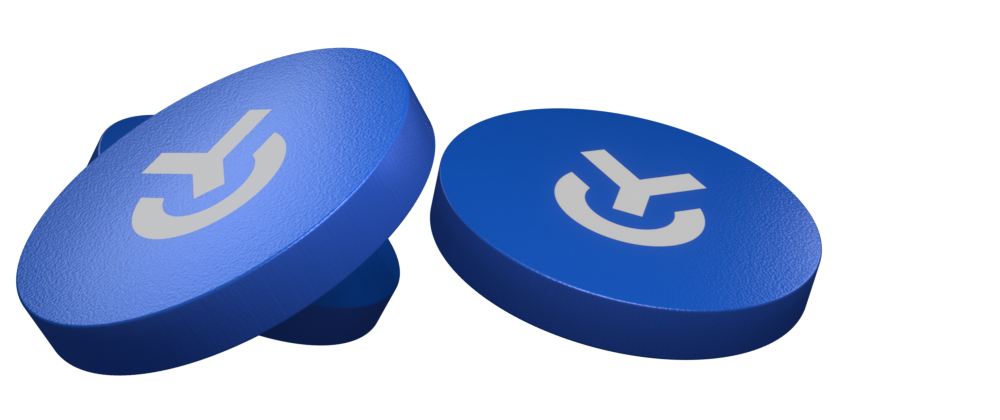
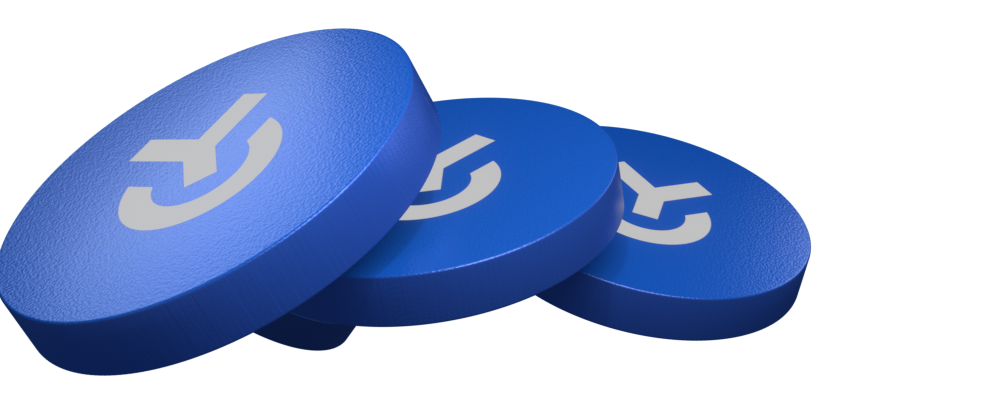
chore: checkpoint current ui baseline and planning docs

Changed region(s): [[0.0, 0.0619, 0.837, 0.8667], [0.062, 0.8667, 0.186, 0.8976], [0.186, 0.8357, 0.217, 0.8667]]

diff --git a/web/app/globals.css b/web/app/globals.css
@@ -3662,6 +3662,25 @@ input:focus-visible {
   opacity: 0.95;
 }
 
+@media (min-width: 1200px) {
+  .home-minimal-hero {
+    min-height: 520px;
+    padding: 3rem 2.55rem;
+    grid-template-columns: minmax(0, 1fr) minmax(380px, 1.18fr);
+  }
+
+  .home-minimal-hero-art {
+    min-height: 436px;
+    margin-right: -2.6rem;
+    overflow: visible;
+  }
+
+  .prism-hero-image {
+    object-position: 71% 57%;
+    transform: scale(1.32);
+  }
+}
+
 .home-minimal-break {
   position: relative;
   height: 84px;
@@ -3991,8 +4010,8 @@ input:focus-visible {
   }
 
   .prism-purpose-image {
-    object-position: 53% 50%;
-    transform: scale(1.1);
+    object-position: 46% 50%;
+    transform: scale(1.12);
   }
 
   .home-minimal-signals,
@@ -4008,11 +4027,21 @@ input:focus-visible {
 
 @media (max-width: 700px) {
   .home-minimal-hero {
-    padding: 1.18rem 0.95rem;
+    position: relative;
+    min-height: 372px;
+    padding: 1.38rem 0.95rem 0.92rem;
+    align-items: flex-start;
+  }
+
+  .home-minimal-hero-copy {
+    position: relative;
+    z-index: 2;
+    max-width: 76%;
+    margin-top: 0.34rem;
   }
 
   .home-minimal-hero-copy p {
-    max-width: 38ch;
+    max-width: 27ch;
   }
 
   .home-minimal-break {
@@ -4020,12 +4049,17 @@ input:focus-visible {
   }
 
   .home-minimal-hero-art {
-    min-height: 186px;
+    position: absolute;
+    inset: 4.15rem -1.9rem -1.1rem 34%;
+    z-index: 1;
+    min-height: 0;
+    margin-right: 0;
+    overflow: visible;
   }
 
   .prism-hero-image {
-    object-position: 48% 50%;
-    transform: scale(1.07);
+    object-position: 58% 50%;
+    transform: scale(1.35);
   }
 
   .home-minimal-purpose {
@@ -4037,8 +4071,8 @@ input:focus-visible {
   }
 
   .prism-purpose-image {
-    object-position: 52% 50%;
-    transform: scale(1.12);
+    object-position: 38% 50%;
+    transform: translateX(-4%) scale(1.2);
   }
 
   .home-route-clickable {
@@ -4053,6 +4087,3 @@ input:focus-visible {
     font-size: 0.9rem;
   }
 }
-  .home-minimal-break {
-    height: 72px;
-  }

diff --git a/scripts/generate_yearn_blender_assets.py b/scripts/generate_yearn_blender_assets.py
@@ -20,6 +20,95 @@ SCENE_OUTPUTS: dict[str, tuple[str, tuple[int, int]]] = {
     "divider": ("divider-yearn-blender-coins.png", (1600, 220)),
 }
 
+CoinColor = tuple[float, float, float, float]
+TokenPose = tuple[tuple[float, float, float], tuple[float, float, float], float, CoinColor]
+
+C0: CoinColor = (0.006, 0.12, 0.62, 1.0)
+C1: CoinColor = (0.005, 0.095, 0.5, 1.0)
+C2: CoinColor = (0.003, 0.07, 0.38, 1.0)
+C3: CoinColor = (0.01, 0.14, 0.7, 1.0)
+C4: CoinColor = (0.008, 0.11, 0.56, 1.0)
+C5: CoinColor = (0.0025, 0.06, 0.33, 1.0)
+C6: CoinColor = (0.011, 0.16, 0.76, 1.0)
+
+HERO_LAYOUTS: dict[str, list[TokenPose]] = {
+    "default": [
+        ((0.34, -0.02, 0.62), (16, -30, 6), 0.98, C0),
+        ((1.22, 0.8, 0.14), (14, 18, -10), 0.78, C1),
+        ((-0.46, 1.0, 0.02), (12, 34, 14), 0.66, C2),
+    ],
+    "arc4": [
+        ((0.18, -0.1, 0.68), (15, -28, 4), 1.02, C0),
+        ((0.78, 0.34, 0.38), (15, -4, -10), 0.86, C4),
+        ((1.26, 0.96, 0.02), (18, 24, -12), 0.62, C1),
+        ((-0.96, 1.06, -0.2), (11, 40, 20), 0.5, C5),
+    ],
+    "stack5": [
+        ((0.06, -0.22, 0.82), (18, -22, 2), 1.08, C3),
+        ((0.72, 0.24, 0.48), (14, -6, -8), 0.9, C0),
+        ((1.18, 0.9, 0.16), (14, 20, -14), 0.7, C1),
+        ((-0.64, 0.86, -0.02), (11, 34, 14), 0.6, C2),
+        ((-1.02, 0.18, -0.32), (10, 44, 24), 0.48, C5),
+    ],
+    "spread6": [
+        ((-0.06, -0.14, 0.76), (16, -24, 4), 1.0, C0),
+        ((0.72, 0.18, 0.52), (15, -12, -8), 0.86, C4),
+        ((1.24, 0.68, 0.24), (15, 12, -10), 0.72, C1),
+        ((-0.56, 1.18, -0.04), (12, 32, 14), 0.54, C2),
+        ((-1.18, 0.66, -0.22), (10, 42, 24), 0.42, C6),
+        ((1.56, 1.24, -0.16), (13, 30, -16), 0.4, C5),
+    ],
+    "field7": [
+        ((0.02, -0.16, 0.84), (17, -24, 4), 1.06, C0),
+        ((0.82, 0.08, 0.58), (14, -10, -8), 0.84, C3),
+        ((1.3, 0.58, 0.32), (14, 8, -10), 0.72, C1),
+        ((1.58, 1.08, 0.04), (14, 24, -14), 0.54, C2),
+        ((-0.62, 0.82, 0.08), (11, 34, 16), 0.54, C5),
+        ((-1.28, 0.52, -0.2), (10, 44, 22), 0.42, C6),
+        ((-0.2, 1.38, -0.28), (11, 30, 12), 0.38, C4),
+    ],
+}
+
+PURPOSE_LAYOUTS: dict[str, list[TokenPose]] = {
+    "default": [
+        ((-0.88, -0.06, 0.34), (16, -26, 2), 0.7, C0),
+        ((0.44, 0.5, 0.12), (13, 14, -10), 0.68, C1),
+        ((-0.94, 0.8, 0.04), (14, 26, 12), 0.6, C2),
+    ],
+    "arc4": [
+        ((-0.9, -0.08, 0.38), (16, -26, 2), 0.74, C0),
+        ((-0.22, 0.08, 0.3), (14, -8, -4), 0.62, C4),
+        ((0.5, 0.48, 0.12), (13, 14, -10), 0.58, C1),
+        ((-0.92, 0.96, -0.12), (15, 32, 16), 0.46, C5),
+    ],
+    "stack5": [
+        ((-0.98, -0.08, 0.4), (18, -24, 0), 0.8, C3),
+        ((-0.42, 0.02, 0.32), (15, -10, -4), 0.7, C0),
+        ((0.14, 0.28, 0.2), (13, 0, -8), 0.62, C4),
+        ((0.62, 0.56, 0.08), (12, 16, -12), 0.56, C1),
+        ((-1.16, 0.98, -0.08), (14, 32, 16), 0.44, C2),
+    ],
+    "spread6": [
+        ((-1.0, -0.08, 0.4), (17, -24, 2), 0.74, C0),
+        ((-0.42, -0.02, 0.34), (15, -14, -2), 0.66, C3),
+        ((0.12, 0.14, 0.26), (14, -4, -8), 0.56, C4),
+        ((0.56, 0.42, 0.14), (13, 12, -10), 0.5, C1),
+        ((-0.86, 0.96, -0.08), (14, 30, 14), 0.44, C2),
+        ((0.94, 0.92, -0.16), (13, 24, -16), 0.38, C5),
+    ],
+    "field7": [
+        ((-1.06, -0.1, 0.42), (17, -24, 2), 0.76, C0),
+        ((-0.56, -0.02, 0.36), (16, -14, -2), 0.68, C6),
+        ((-0.08, 0.1, 0.28), (14, -4, -8), 0.6, C4),
+        ((0.36, 0.28, 0.18), (13, 8, -10), 0.52, C1),
+        ((0.76, 0.58, 0.04), (12, 20, -14), 0.46, C2),
+        ((-0.86, 1.04, -0.1), (14, 34, 16), 0.4, C5),
+        ((1.02, 0.98, -0.2), (12, 28, -18), 0.32, C3),
+    ],
+}
+
+LAYOUT_NAMES = sorted(set(HERO_LAYOUTS) & set(PURPOSE_LAYOUTS))
+
 
 def parse_args() -> argparse.Namespace:
     argv = sys.argv[sys.argv.index("--") + 1 :] if "--" in sys.argv else []
@@ -43,6 +132,12 @@ def parse_args() -> argparse.Namespace:
         type=str,
         default="hero,purpose,divider",
         help="Comma-separated scene list from: hero,purpose,divider.",
+    )
+    parser.add_argument(
+        "--layout",
+        type=str,
+        default="default",
+        help=f"Coin layout for hero/purpose scenes from: {', '.join(LAYOUT_NAMES)}.",
     )
     return parser.parse_args(argv)
 
@@ -77,6 +172,13 @@ def normalize_scene_selection(raw: str) -> list[str]:
         if item not in ordered_unique:
             ordered_unique.append(item)
     return ordered_unique
+
+
+def normalize_layout(raw: str) -> str:
+    choice = raw.strip().lower()
+    if choice not in LAYOUT_NAMES:
+        raise ValueError(f"Unknown layout '{raw}'. Choose from: {', '.join(LAYOUT_NAMES)}")
+    return choice
 
 
 def clear_scene() -> None:
@@ -584,64 +686,28 @@ def render(path: Path, width: int, height: int) -> None:
     bpy.ops.render.render(write_still=True)
 
 
-def hero_scene(prefab: bpy.types.Object) -> None:
+def apply_token_layout(prefab: bpy.types.Object, prefix: str, poses: list[TokenPose]) -> None:
+    for idx, (location, rotation_deg, scale, color) in enumerate(poses):
+        instance_token(
+            prefab=prefab,
+            name=f"{prefix}{idx + 1}",
+            location=location,
+            rotation_deg=rotation_deg,
+            scale=scale,
+            color=color,
+        )
+
+
+def hero_scene(prefab: bpy.types.Object, layout: str) -> None:
     add_lights()
     set_camera((0.0, -7.2, 2.1), (77, 0, 0), 72)
-
-    instance_token(
-        prefab=prefab,
-        name="HeroA",
-        location=(0.34, -0.02, 0.62),
-        rotation_deg=(16, -30, 6),
-        scale=0.98,
-        color=(0.006, 0.12, 0.62, 1.0),
-    )
-    instance_token(
-        prefab=prefab,
-        name="HeroB",
-        location=(1.22, 0.8, 0.14),
-        rotation_deg=(14, 18, -10),
-        scale=0.78,
-        color=(0.005, 0.095, 0.5, 1.0),
-    )
-    instance_token(
-        prefab=prefab,
-        name="HeroC",
-        location=(-0.46, 1.0, 0.02),
-        rotation_deg=(12, 34, 14),
-        scale=0.66,
-        color=(0.003, 0.07, 0.38, 1.0),
-    )
+    apply_token_layout(prefab, "Hero", HERO_LAYOUTS[layout])
 
 
-def purpose_scene(prefab: bpy.types.Object) -> None:
+def purpose_scene(prefab: bpy.types.Object, layout: str) -> None:
     add_lights()
     set_camera((0.0, -6.1, 1.82), (76, 0, 0), 70)
-
-    instance_token(
-        prefab=prefab,
-        name="PurposeA",
-        location=(-0.88, -0.06, 0.34),
-        rotation_deg=(16, -26, 2),
-        scale=0.7,
-        color=(0.006, 0.12, 0.62, 1.0),
-    )
-    instance_token(
-        prefab=prefab,
-        name="PurposeB",
-        location=(0.44, 0.5, 0.12),
-        rotation_deg=(13, 14, -10),
-        scale=0.68,
-        color=(0.005, 0.095, 0.5, 1.0),
-    )
-    instance_token(
-        prefab=prefab,
-        name="PurposeC",
-        location=(-0.94, 0.8, 0.04),
-        rotation_deg=(14, 26, 12),
-        scale=0.6,
-        color=(0.003, 0.07, 0.38, 1.0),
-    )
+    apply_token_layout(prefab, "Purpose", PURPOSE_LAYOUTS[layout])
 
 
 def divider_scene(prefab: bpy.types.Object) -> None:
@@ -676,16 +742,16 @@ def divider_scene(prefab: bpy.types.Object) -> None:
     )
 
 
-def render_scene(kind: str, out_dir: Path, logo_png: Path) -> None:
+def render_scene(kind: str, out_dir: Path, logo_png: Path, layout: str) -> None:
     out_name, size = SCENE_OUTPUTS[kind]
     clear_scene()
     logo_template = build_logo_plane_template(logo_png)
     prefab = build_token_prefab(logo_template)
 
     if kind == "hero":
-        hero_scene(prefab)
+        hero_scene(prefab, layout=layout)
     elif kind == "purpose":
-        purpose_scene(prefab)
+        purpose_scene(prefab, layout=layout)
     elif kind == "divider":
         divider_scene(prefab)
     else:
@@ -702,13 +768,15 @@ def main() -> None:
     output_dir: Path = args.output_dir
     output_dir.mkdir(parents=True, exist_ok=True)
     scenes = normalize_scene_selection(args.scenes)
+    layout = normalize_layout(args.layout)
 
     print(f"Output dir: {output_dir}")
     print(f"Logo PNG:   {logo_png}")
     print(f"Scenes:     {', '.join(scenes)}")
+    print(f"Layout:     {layout}")
 
     for scene_name in scenes:
-        render_scene(scene_name, out_dir=output_dir, logo_png=logo_png)
+        render_scene(scene_name, out_dir=output_dir, logo_png=logo_png, layout=layout)
 
     print("Render complete.")
 
